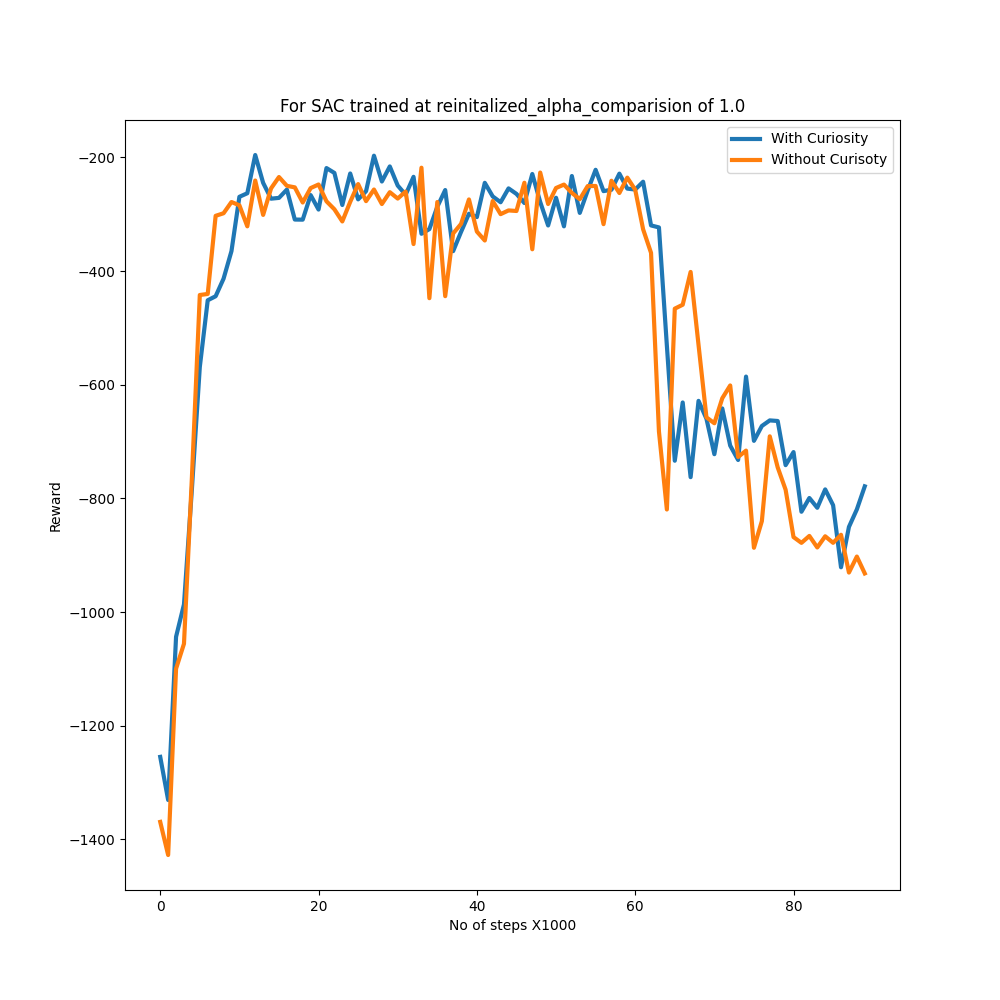
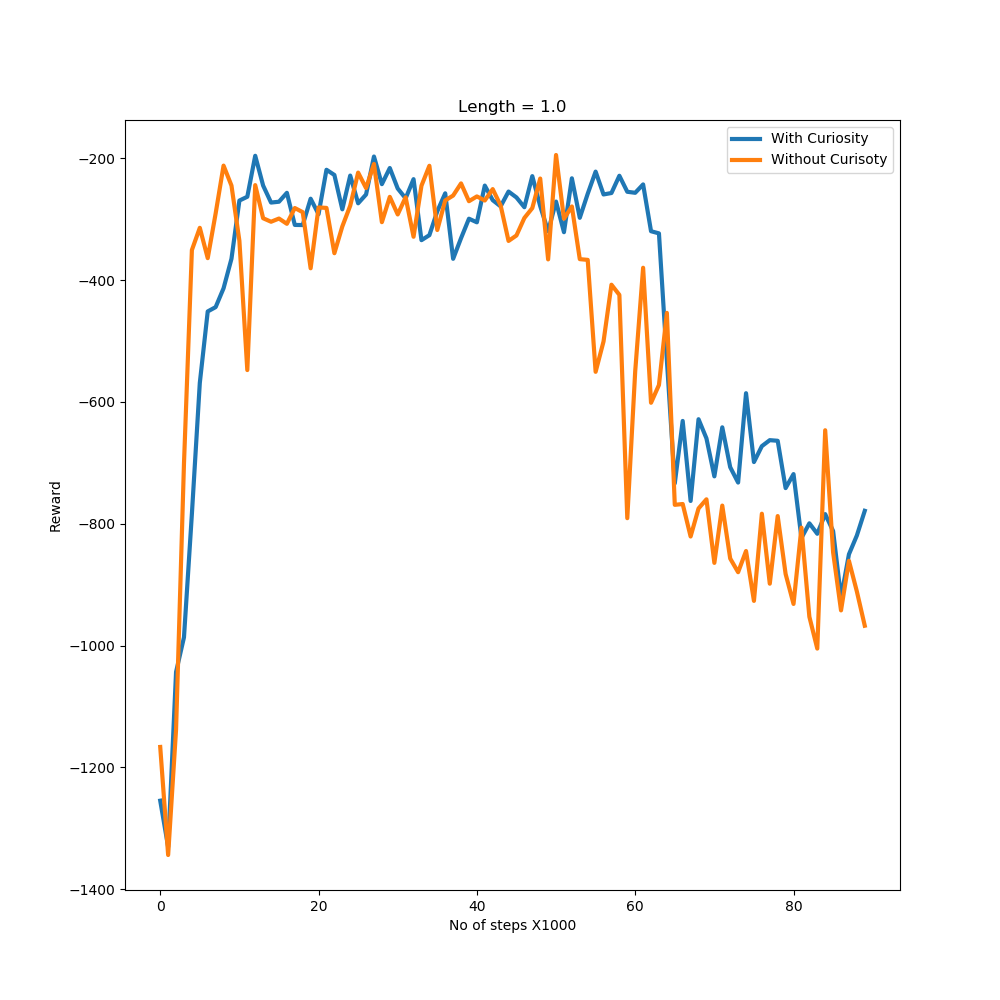
random

diff --git a/Results_Main/buffer-size_based_stuff/plot_comparision_diff_buff_type.py b/Results_Main/buffer-size_based_stuff/plot_comparision_diff_buff_type.py
@@ -9,7 +9,7 @@ l_linear_rate = 65e-7
 update_on_interval = False
 no_steps = 120000
 
-m_s = 2000
+m_s = 1000
 l_i = length_interval//1000
 dir_name_r_fifo = "buff_size_"+ str(m_s) + "/linear_False_m_s_"+ str(m_s) + "__restart_alpha_False_Buffer_FIFO"
 dir_name_r_hrf = "buff_size_"+ str(m_s) + "/linear_False_m_s_"+ str(m_s) + "__restart_alpha_False_Buffer_HRF"
@@ -33,7 +33,7 @@ load_dir_5 = "results_length__s_i_1000_5"
 changing_variable_name = "diff_buffer_type_comparision"
 
 
-legend = [ "FIFO", "Reservior", "Reservior with FIFO", "Curiosity based Reservior", "Curiosity based Reservior with FIFO" ]
+legend = [ "FIFO", "Reservior", "Reservior with FIFO", ]
 
 
 #HRF
@@ -202,12 +202,12 @@ plt.fill_between(x, rewards_r_res_avg + rew_res_ind_std, rewards_r_res_avg - rew
 plt.plot(rewards_r_hrf_avg, linewidth=3)
 plt.fill_between(x, rewards_r_hrf_avg + rew_hrf_ind_std, rewards_r_hrf_avg - rew_hrf_ind_std, alpha = 0.2)
 
-plt.plot(rewards_r_res_cur_avg, linewidth=3)
-plt.fill_between(x, rewards_r_res_cur_avg + rew_res_cur_ind_std, rewards_r_res_cur_avg - rew_res_cur_ind_std, alpha = 0.2)
+#plt.plot(rewards_r_res_cur_avg, linewidth=3)
+#plt.fill_between(x, rewards_r_res_cur_avg + rew_res_cur_ind_std, rewards_r_res_cur_avg - rew_res_cur_ind_std, alpha = 0.2)
 
 
-plt.plot(rewards_r_hrf_cur_avg, linewidth=3)
-plt.fill_between(x, rewards_r_hrf_cur_avg + rew_hrf_cur_ind_std, rewards_r_hrf_cur_avg - rew_hrf_cur_ind_std, alpha = 0.2)
+#plt.plot(rewards_r_hrf_cur_avg, linewidth=3)
+#plt.fill_between(x, rewards_r_hrf_cur_avg + rew_hrf_cur_ind_std, rewards_r_hrf_cur_avg - rew_hrf_cur_ind_std, alpha = 0.2)
 
 
 plt.legend(legend)
@@ -232,11 +232,11 @@ for i in range(len(changing_variable)):
     plt.fill_between(x, rewards_r_hrf[i] + rew_hrf_std[i], rewards_r_hrf[i] - rew_hrf_std[i], alpha=0.2)
 
 
-    plt.plot(rewards_r_res_cur[i], linewidth=2)
-    plt.fill_between(x, rewards_r_res_cur[i] + rew_res_cur_std[i], rewards_r_res_cur[i] - rew_res_cur_std[i], alpha=0.2)
+    #plt.plot(rewards_r_res_cur[i], linewidth=2)
+    #plt.fill_between(x, rewards_r_res_cur[i] + rew_res_cur_std[i], rewards_r_res_cur[i] - rew_res_cur_std[i], alpha=0.2)
 
-    plt.plot(rewards_r_hrf_cur[i], linewidth=2)
-    plt.fill_between(x, rewards_r_hrf_cur[i] + rew_hrf_cur_std[i], rewards_r_hrf_cur[i] - rew_hrf_cur_std[i], alpha=0.2)
+    #plt.plot(rewards_r_hrf_cur[i], linewidth=2)
+    #plt.fill_between(x, rewards_r_hrf_cur[i] + rew_hrf_cur_std[i], rewards_r_hrf_cur[i] - rew_hrf_cur_std[i], alpha=0.2)
 
 
     plt.axvline(x=i * l_i, color="black", linewidth=3)

diff --git a/Results_Main/curiosity_based_stuff/plot_comparision_curiosity.py b/Results_Main/curiosity_based_stuff/plot_comparision_curiosity.py
@@ -9,7 +9,7 @@ l_linear_rate = 65e-7
 update_on_interval = False
 no_steps = 90000
 
-dir_name_r_f = "curiosity_False_linear_False_m_s_10000__restart_alpha_False"
+dir_name_r_f = "curiosity_False_linear_True_m_s_10000__restart_alpha_False"
 dir_name_r_t = "curiosity_True_linear_False_m_s_10000__restart_alpha_False"
 
 changing_variable = [1.0  for i in range(int(no_steps / length_interval))]
@@ -67,8 +67,8 @@ plt.plot(rewards_r_f_avg, linewidth=3)
 plt.legend(legend)
 plt.xlabel('No of steps X1000')
 plt.ylabel("Reward")
-plt.title("For SAC trained at " + str(changing_variable_name) + " of " + str(changing_variable[0]) )
-name = "curiosity" + "/" + changing_variable_name
+plt.title("Average" )
+name = "curiosity" + "/" + "avg"
 plt.savefig(name)
 plt.close(fig)
 
@@ -79,7 +79,7 @@ for i in range(len(changing_variable)):
     plt.legend(legend)
     plt.xlabel('No of steps X1000')
     plt.ylabel("Reward")
-    plt.title("For SAC trained at " + str(changing_variable_name) + " of " + str(changing_variable[0]))
+    plt.title("Length = " + str(changing_variable[i]))
     name = "curiosity" + "/" + "time_stamp_" + str(changing_variable[i]) + ".png"
     plt.savefig(name)
     plt.close(fig)

diff --git a/additional_test/Tests/temp_plots.py b/additional_test/Tests/temp_plots.py
@@ -1,8 +1,8 @@
 import matplotlib.pyplot as plt
 
 
-change_variable_at = [0, 30, 60, 120, 200]
-change_variable = [1.0, 1.2, 1.4, 1.6, 1.6]
+change_variable_at = [0, 30, 60, 90, 120]
+change_variable = [1.0, 1.2, 1.4, 1.6, 120]
 
 change_var  = [1.0]
 
@@ -12,11 +12,12 @@ for i in range(1, len(change_variable_at)):
         change_var.append(change_variable[i-1])
         j += 1
 
+"""
 change_var = [1.0 for i in range(90)]
 for i in range(1, 90):
 
     change_var[i] = change_var[i-1] +  65e-7
-
+"""
 
 plt.plot(change_var)
-plt.savefig("setting_0")
+plt.savefig("setting_2_1")
